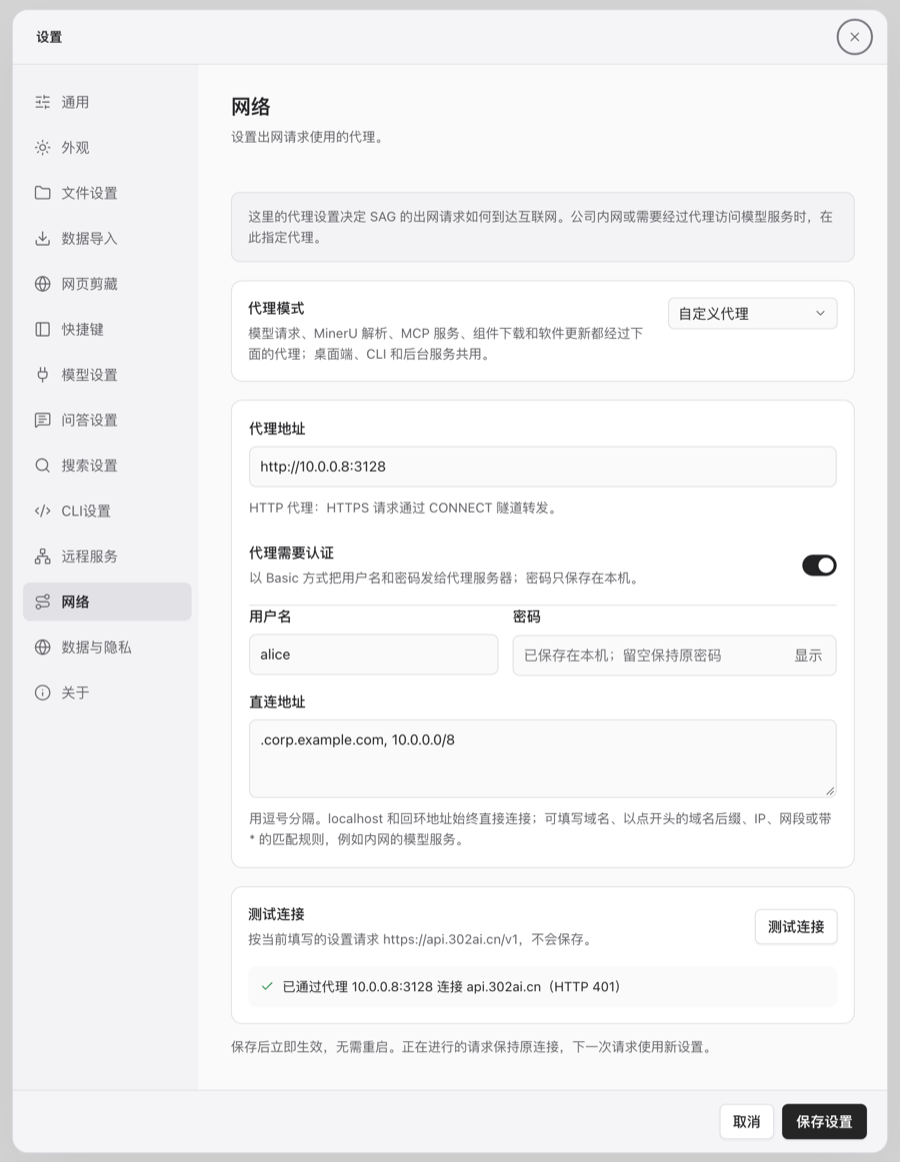
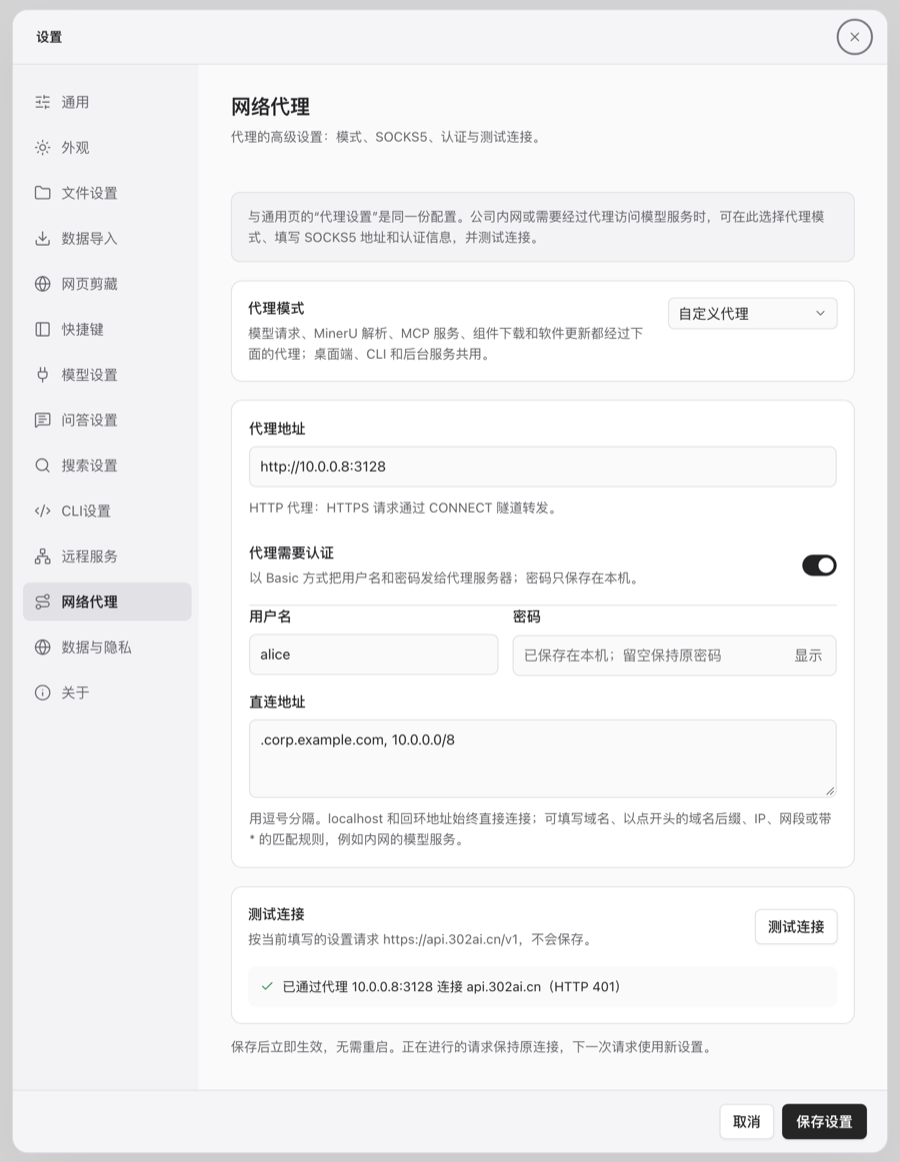
feat(settings): keep the General proxy dialog and make Network proxy its advanced page
Restore the 0.4.0 "Configure proxy" dialog on the General page unchanged
in layout: address and bypass list, test button, Done. Entering an
address switches to the custom mode and clearing it returns to the system
proxy, so the dialog keeps its 0.4.0 meaning. Its test now reports the
route through the shared probe, and a new line links to the advanced page.

Rename the new page to "Network proxy". It edits the same model_proxy
setting as the dialog and adds the mode selector, SOCKS5 addresses,
authentication and the route-reporting test. The General page and its
screenshots return to the 0.4.0 state; the dialog and advanced-page
screenshots are refreshed and the docs describe the two entry points.

diff --git a/src/components/Settings.svelte b/src/components/Settings.svelte
@@ -12,7 +12,7 @@
  import Switch from "./ui/Switch.svelte";
  import ReasoningControl from "./ReasoningControl.svelte";
  import{Button,Checkbox}from 'bits-ui';
- import type{Settings,ModelConfig,Retrieval,FileTypes,CliAccess,ConversionStorage}from '../lib/types';import{normalizeModelProxy}from '../lib/types';import{icon,logo}from '../lib/icons';import{api}from '../lib/api';
+ import type{Settings,ModelConfig,ModelProxy,Retrieval,FileTypes,CliAccess,ConversionStorage}from '../lib/types';import{normalizeModelProxy}from '../lib/types';import{icon,logo}from '../lib/icons';import{api}from '../lib/api';
  import {open} from '@tauri-apps/plugin-dialog';
  import {displayPath} from '../lib/domain';
  import Modal from './ui/Modal.svelte';import McpSettings from './McpSettings.svelte';import{parseMcpCredentials}from '../lib/mcp-config';import type{McpCredentials,McpServer,McpToolInfo}from '../lib/types';
@@ -67,6 +67,27 @@
   pdf:value.document_parser_pdf_prompt?.trim()||visionPromptFields[0].defaultPrompt,
   image:value.document_parser_image_prompt?.trim()||visionPromptFields[1].defaultPrompt,
  };
+ let proxyDraft:ModelProxy|null=null;
+ let proxyTest:{result:'pending'|'success'|'failure',message:string}|null=null;
+ /** The General dialog edits the shared proxy: an address means a custom proxy, none keeps or restores the system default. */
+ function applyProxyDraft(){
+  if(!proxyDraft)return;
+  const url=proxyDraft.url.trim();
+  settings.model_proxy={...settings.model_proxy,url,bypass:proxyDraft.bypass.trim(),mode:url?'custom':settings.model_proxy.mode==='custom'?'system':settings.model_proxy.mode};
+  proxyDraft=null;
+ }
+ async function testProxy(){
+  const address=proxyDraft?.url.trim();
+  if(!proxyDraft||!address||proxyTest?.result==='pending')return;
+  const attempt={result:'pending' as const,message:'正在测试连接…'};
+  proxyTest=attempt;
+  try{
+   const message=await api<string>('test_proxy_connection',{proxy:{...settings.model_proxy,mode:'custom',url:address,bypass:proxyDraft.bypass.trim()}});
+   if(proxyTest===attempt)proxyTest={result:'success',message};
+  }catch(e){
+   if(proxyTest===attempt)proxyTest={result:'failure',message:String(e)};
+  }
+ }
  $:documentParser=settings.document_parser??(value.mineru?.enabled?'mineru':'docling');
  $:remoteParsing=documentParser==='mineru'&&!!(settings.mineru?.has_key||mineruKey.trim());
  let storage:ConversionStorage=value.conversion_storage??{mode:'library'};
@@ -131,8 +152,8 @@
  function changeProvider(kind:ModelKind,id:string){const current=providerChoice[kind];providerChoice[kind]=id;if(id===current)return;if(kind==='jev'){settings.jev.model=id==='zleap'?'Zev-1':id==='openai'?'gpt-6-luna':id==='302'||id==='official'?'jev-latest':'';if(id==='openai'&&settings.jev.auth_mode==='none')changeJevAuth('bearer');}if(id==='custom')return;changeAddress(kind,providerFor(kind,value[kind].url)===id?value[kind].url:providers[kind].find(provider=>provider.value===id)!.url);}
  $:applyTheme(settings.theme);
  onDestroy(()=>{if(!languageSaved)setLanguage(value.language);applyTheme(value.theme)});
- $:pages=[['general',$t("通用"),'settings'],['appearance',$t("外观"),'sun'],['files',$t("文件设置"),'folder'],['imports',$t('数据导入'),'download'],['clipper',$t('网页剪藏'),'globe'],['shortcuts',$t("快捷键"),'panel'],['models',$t("模型设置"),'plug'],['answer',$t("问答设置"),'chat'],['retrieval',$t("搜索设置"),'search'],['cli',$t('CLI设置'),'codeBlock'],['api',$t('远程服务'),'network'],['network',$t('网络'),'route'],['privacy',$t("数据与隐私"),'globe'],['about',$t("关于"),'info']].filter(([id])=>!web||id!=='clipper');
- let descriptions:Record<string,string>; $:descriptions={api:$t('供本机与局域网程序搜索知识库。'),clipper:$t('将网页保存为本地 Markdown 文件。'),general:$t("设置启动方式与日常使用习惯。"),appearance:$t("选择适合你的外观与阅读字号。"),files:$t("原文件保留在本地，内容变化自动同步。"),shortcuts:$t("使用键盘完成常用操作。"),models:$t("配置问答模型与 Jev 的连接信息。"),answer:$t("配置提示词、工具绑定与问答请求参数。"),retrieval:$t("调整 SAG2 的召回、扩展与片段设置。"),cli:$t("让 Agent 通过 SAG 搜索本地项目。"),network:$t("设置出网请求使用的代理。"),privacy:$t("查看数据保存方式与本地存储位置。"),about:$t("你的文件，直接成为知识库。")};
+ $:pages=[['general',$t("通用"),'settings'],['appearance',$t("外观"),'sun'],['files',$t("文件设置"),'folder'],['imports',$t('数据导入'),'download'],['clipper',$t('网页剪藏'),'globe'],['shortcuts',$t("快捷键"),'panel'],['models',$t("模型设置"),'plug'],['answer',$t("问答设置"),'chat'],['retrieval',$t("搜索设置"),'search'],['cli',$t('CLI设置'),'codeBlock'],['api',$t('远程服务'),'network'],['network',$t('网络代理'),'route'],['privacy',$t("数据与隐私"),'globe'],['about',$t("关于"),'info']].filter(([id])=>!web||id!=='clipper');
+ let descriptions:Record<string,string>; $:descriptions={api:$t('供本机与局域网程序搜索知识库。'),clipper:$t('将网页保存为本地 Markdown 文件。'),general:$t("设置启动方式与日常使用习惯。"),appearance:$t("选择适合你的外观与阅读字号。"),files:$t("原文件保留在本地，内容变化自动同步。"),shortcuts:$t("使用键盘完成常用操作。"),models:$t("配置问答模型与 Jev 的连接信息。"),answer:$t("配置提示词、工具绑定与问答请求参数。"),retrieval:$t("调整 SAG2 的召回、扩展与片段设置。"),cli:$t("让 Agent 通过 SAG 搜索本地项目。"),network:$t("代理的高级设置：模式、SOCKS5、认证与测试连接。"),privacy:$t("查看数据保存方式与本地存储位置。"),about:$t("你的文件，直接成为知识库。")};
  let parameters:[keyof Retrieval,string,string,number,number][]; $:parameters=[['candidate_k',$t("每轮候选数量"),$t("问答每轮的新候选上限；深入搜索固定为 100"),10,100],['seed_k',$t("扩展起点数量"),$t("每轮尚未扩展的起点"),1,20],['expansion_term_limit',$t("扩展词上限"),$t("包括词项和完整名称短语"),1,500],['max_hops',$t("扩展轮数"),$t("默认扩展 1 次；加上首次召回，共 2 轮检索"),0,2],['top_k',$t("返回片段数量"),$t("问答工具返回的片段数；深入搜索最多展示 100 个文件"),1,100],['chunk_chars',$t("片段目标字符数"),$t("默认约 512，保留完整句子及相邻上下文；长句可超过目标长度。修改后自动重建索引"),400,12000]];
  let fileTypeOptions:[keyof FileTypes,string,string][]; $:fileTypeOptions=[['markdown','Markdown','.md · .markdown'],['text',$t("文本与文档"),'.txt · .rtf · .docx · .pptx · .xlsx · .odt · .epub · .pdf'],['code',$t("代码"),'.py · .js · .ts · .rs · .html · .css'],['config',$t("配置文件"),'.json · .yaml · .toml · .xml · .ini']];
  $:indexSettingsChanged=settings.runtime.office_text_only!==(value.runtime?.office_text_only??false)||JSON.stringify(settings.conversion_formats??null)!==JSON.stringify(value.conversion_formats??null)||settings.convert_other_formats!==(value.convert_other_formats??false)||fileTypeOptions.some(([kind])=>settings.file_types[kind]!==({markdown:true,text:true,code:false,config:false,...value.file_types})[kind])||JSON.stringify(settings.excluded)!==JSON.stringify(value.excluded)||settings.retrieval.chunk_chars!==value.retrieval.chunk_chars;
@@ -205,7 +226,7 @@
       {#if !web}<div class="setting-row"><div><strong>{$t("启动页面")}</strong><p>{$t("打开应用时首先显示的页面")}</p></div><Select label={$t("启动页面")} class="start-page-select" bind:value={settings.start_page} items={[{value:"ask",label:$t("问答")},{value:"search",label:$t("搜索")}]}/></div>{/if}
       <div class="setting-row"><div><strong>{$t("settings.interfaceLanguage")}</strong></div><Select label={$t("settings.interfaceLanguage")} value={settings.language} onValueChange={next=>{settings.language=resolveLanguage(next);setLanguage(settings.language)}} items={languageOptions}/></div>
       {#if !web}<div class="setting-row"><div><strong>{$t("关闭窗口后")}</strong><p>{$t("从托盘或菜单栏重新打开，也可在那里退出。")}</p></div><span class="setting-value">{$t("后台继续运行")}</span></div>{/if}
-      <div class="setting-row"><div><strong>{$t('代理设置')}</strong><p>{$t('在“网络”中选择代理模式、填写地址与直连地址。')}</p></div><Button.Root type="button" class="outline settings-open-network" disabled={busy} onclick={()=>{page='network';status='';error=''}}>{$t('配置代理')}</Button.Root></div>
+      <div class="setting-row"><strong>{$t('代理设置')}</strong><Button.Root type="button" class="outline" disabled={busy} onclick={()=>{proxyTest=null;proxyDraft={...settings.model_proxy}}}>{$t('配置代理')}</Button.Root></div>
      </section>
      {#if onShowGuide}<section class="settings-group"><div class="setting-row"><div><strong>{$t('快速入门')}</strong><p>{$t('重新查看文件接入、搜索与问答教程')}</p></div><Button.Root type="button" class="outline" onclick={onShowGuide}>{$t('查看教程')}</Button.Root></div></section>{/if}
     {:else if page==='appearance'}
@@ -422,7 +443,33 @@
  <div class="dialog-footer"><Button.Root type="button" aria-label={$t("取消清空对话")} disabled={clearing} onclick={()=>confirmClear=false}>{$t("取消")}</Button.Root><Button.Root type="button" class="clear-conversations-button" aria-label={$t("确认清空所有对话")} disabled={clearing} onclick={clearConversations}>{clearing?$t("正在清空…"):$t("确认清空")}</Button.Root></div>
 </Modal>{/if}
 
+{#if proxyDraft}
+ <Modal label={$t('配置代理')} class="proxy-config-dialog" onClose={()=>proxyDraft=null}>
+  <div class="dialog-head"><h2>{$t('配置代理')}</h2></div>
+  <form on:submit|preventDefault={applyProxyDraft}>
+   <div class="dialog-body">
+    <p class="settings-help">{$t('留空时沿用系统代理和环境变量。')}</p>
+    <label class="field-label">{$t('代理地址')}<Input id="model-proxy-url" type="url" bind:value={proxyDraft.url} oninput={()=>proxyTest=null} placeholder="http://proxy.example.com:8080" autocomplete="off" spellcheck={false}/></label>
+    <label class="field-label">{$t('直连地址')}<Input id="model-proxy-bypass" aria-describedby="model-proxy-bypass-help" bind:value={proxyDraft.bypass} placeholder=".internal.example, 10.0.0.0/8" autocomplete="off" spellcheck={false}/></label>
+    <p id="model-proxy-bypass-help" class="settings-help">{$t('可选。域名、IP 或网段，用逗号分隔。')}</p>
+    <p class="settings-help"><Button.Root type="button" class="settings-text-button proxy-advanced-link" onclick={()=>{proxyDraft=null;page='network';status='';error=''}}>{$t('需要 SOCKS5、认证或强制直连？前往「网络代理」')}</Button.Root></p>
+    <div role="status">{#if proxyTest}<p class="proxy-test-result" class:form-error={proxyTest.result==='failure'}>{$t(proxyTest.message)}</p>{/if}</div>
+   </div>
+   <div class="dialog-footer">
+    <Button.Root type="button" class="outline proxy-test-button" disabled={!proxyDraft.url.trim()||proxyTest?.result==='pending'} onclick={testProxy}>{$t('测试连接')}</Button.Root>
+    <Button.Root type="button" class="outline" onclick={()=>proxyDraft=null}>{$t('取消')}</Button.Root>
+    <Button.Root type="submit" class="primary">{$t('完成')}</Button.Root>
+   </div>
+  </form>
+ </Modal>
+{/if}
+
 <style>
+ :global(.proxy-config-dialog.dialog-panel){max-width:calc(100vw - 32px)}
+ :global(.proxy-config-dialog .field-label:last-of-type){margin-bottom:0}
+ :global(.proxy-config-dialog .proxy-test-button){margin-inline-end:auto}
+ :global(.proxy-config-dialog .proxy-advanced-link){padding:0;margin-top:10px}
+ .proxy-test-result{margin:8px 0 0}
  :global(.model-catalog-backdrop){z-index:45}
  :global(.model-catalog.dialog-panel){display:flex;flex-direction:column;max-height:calc(100dvh - 48px)}
  :global(.model-catalog .dialog-body){display:flex;flex-direction:column;min-height:0;gap:12px}

diff --git a/src/components/NetworkSettings.svelte b/src/components/NetworkSettings.svelte
@@ -56,7 +56,7 @@
 </script>
 
 <div class="network-settings">
- <div class="settings-info-box">{$t('这里的代理设置决定 SAG 的出网请求如何到达互联网。公司内网或需要经过代理访问模型服务时，在此指定代理。')}</div>
+ <div class="settings-info-box">{$t('与通用页的“代理设置”是同一份配置。公司内网或需要经过代理访问模型服务时，可在此选择代理模式、填写 SOCKS5 地址和认证信息，并测试连接。')}</div>
  <section class="settings-group">
   <div class="setting-row network-mode-row">
    <div><strong>{$t('代理模式')}</strong><p>{summary}</p></div>
@@ -67,19 +67,19 @@
   <section class="settings-group settings-fields network-proxy-fields">
    {#if value.mode==='custom'}
     <label class="field-label">{$t('代理地址')}
-     <Input id="model-proxy-url" type="text" inputmode="url" required value={value.url} oninput={event=>changeUrl(event.currentTarget.value)} placeholder="http://127.0.0.1:7890" autocomplete="off" spellcheck="false" aria-describedby="model-proxy-url-help"/>
+     <Input id="network-proxy-url" type="text" inputmode="url" required value={value.url} oninput={event=>changeUrl(event.currentTarget.value)} placeholder="http://127.0.0.1:7890" autocomplete="off" spellcheck="false" aria-describedby="network-proxy-url-help"/>
     </label>
-    <p class="settings-help" id="model-proxy-url-help">{urlHint||$t('支持 http://、https://、socks5:// 和 socks5h:// 地址；只写主机和端口时按 HTTP 代理处理。')}</p>
+    <p class="settings-help" id="network-proxy-url-help">{urlHint||$t('支持 http://、https://、socks5:// 和 socks5h:// 地址；只写主机和端口时按 HTTP 代理处理。')}</p>
     <div class="setting-row network-auth-row">
      <div><strong>{$t('代理需要认证')}</strong><p>{$t('以 Basic 方式把用户名和密码发给代理服务器；密码只保存在本机。')}</p></div>
      <Switch checked={authEnabled} label={$t('代理需要认证')} onCheckedChange={toggleAuth}/>
     </div>
     {#if authEnabled}
      <div class="network-auth-fields">
-      <label class="field-label">{$t('用户名')}<Input id="model-proxy-username" type="text" required value={value.username} oninput={event=>{value={...value,username:event.currentTarget.value};invalidate();}} autocomplete="off" spellcheck="false"/></label>
+      <label class="field-label">{$t('用户名')}<Input id="network-proxy-username" type="text" required value={value.username} oninput={event=>{value={...value,username:event.currentTarget.value};invalidate();}} autocomplete="off" spellcheck="false"/></label>
       <label class="field-label">{$t('密码')}
        <div class="key-field">
-        <Input id="model-proxy-password" type={showPassword?'text':'password'} value={value.password??''} oninput={event=>{value={...value,password:event.currentTarget.value};invalidate();}} placeholder={value.has_password&&value.password===null?$t('已保存在本机；留空保持原密码'):$t('填写代理密码')} autocomplete="off" spellcheck="false"/>
+        <Input id="network-proxy-password" type={showPassword?'text':'password'} value={value.password??''} oninput={event=>{value={...value,password:event.currentTarget.value};invalidate();}} placeholder={value.has_password&&value.password===null?$t('已保存在本机；留空保持原密码'):$t('填写代理密码')} autocomplete="off" spellcheck="false"/>
         <Button.Root type="button" onclick={()=>showPassword=!showPassword}>{showPassword?$t('隐藏'):$t('显示')}</Button.Root>
        </div>
       </label>
@@ -87,9 +87,9 @@
     {/if}
    {/if}
    <label class="field-label">{$t('直连地址')}
-    <Textarea id="model-proxy-bypass" rows={2} value={value.bypass} oninput={event=>{value={...value,bypass:event.currentTarget.value};invalidate();}} placeholder=".corp.example.com, 10.0.0.0/8, *.internal" spellcheck="false" aria-describedby="model-proxy-bypass-help"/>
+    <Textarea id="network-proxy-bypass" rows={2} value={value.bypass} oninput={event=>{value={...value,bypass:event.currentTarget.value};invalidate();}} placeholder=".corp.example.com, 10.0.0.0/8, *.internal" spellcheck="false" aria-describedby="network-proxy-bypass-help"/>
    </label>
-   <p class="settings-help" id="model-proxy-bypass-help">{$t('用逗号分隔。localhost 和回环地址始终直接连接；可填写域名、以点开头的域名后缀、IP、网段或带 * 的匹配规则，例如内网的模型服务。')}</p>
+   <p class="settings-help" id="network-proxy-bypass-help">{$t('用逗号分隔。localhost 和回环地址始终直接连接；可填写域名、以点开头的域名后缀、IP、网段或带 * 的匹配规则，例如内网的模型服务。')}</p>
   </section>
  {/if}
  <section class="settings-group network-test">

diff --git a/CHANGELOG.md b/CHANGELOG.md
@@ -2,11 +2,11 @@
 
 ## 0.4.2
 
-- **网络代理模式**：新增「设置 → 网络」页面，可选择跟随系统代理、自定义代理或不使用代理，取代通用设置中的代理弹窗。自定义代理支持 SOCKS5 地址和 Basic 认证，密码与 API 密钥一样只保存在本机；测试连接改为请求模型服务地址并报告实际线路；stdio 方式启动的 MCP 服务也获得同样的代理环境变量。([Issue #171](https://github.com/Zleap-AI/SAG-Wiki/issues/171)、[Issue #125](https://github.com/Zleap-AI/SAG-Wiki/issues/125))
+- **网络代理高级设置**：新增「设置 → 网络代理」页面，与通用设置中的代理弹窗编辑同一份配置，可选择跟随系统代理、自定义代理或不使用代理。自定义代理支持 SOCKS5 地址和 Basic 认证，密码与 API 密钥一样只保存在本机；测试连接改为请求已保存的模型服务地址并报告实际线路；stdio 方式启动的 MCP 服务也获得同样的代理环境变量。([Issue #171](https://github.com/Zleap-AI/SAG-Wiki/issues/171)、[Issue #125](https://github.com/Zleap-AI/SAG-Wiki/issues/125))
 
 ### English
 
-- **Network proxy modes**: Add a **Settings → Network** page to follow the system proxy, use a custom proxy, or connect directly, replacing the proxy dialog in General settings. A custom proxy accepts SOCKS5 addresses and Basic authentication, with the password stored locally like API keys. **Test connection** now requests the model service and reports the route taken, and MCP servers started over stdio receive the same proxy environment. ([Issue #171](https://github.com/Zleap-AI/SAG-Wiki/issues/171), [Issue #125](https://github.com/Zleap-AI/SAG-Wiki/issues/125))
+- **Advanced network proxy settings**: Add a **Settings → Network proxy** page that edits the same configuration as the proxy dialog in General settings, with a choice to follow the system proxy, use a custom proxy, or connect directly. A custom proxy accepts SOCKS5 addresses and Basic authentication, with the password stored locally like API keys. **Test connection** now requests the saved model service address and reports the route taken, and MCP servers started over stdio receive the same proxy environment. ([Issue #171](https://github.com/Zleap-AI/SAG-Wiki/issues/171), [Issue #125](https://github.com/Zleap-AI/SAG-Wiki/issues/125))
 
 ## 0.4.1
 
